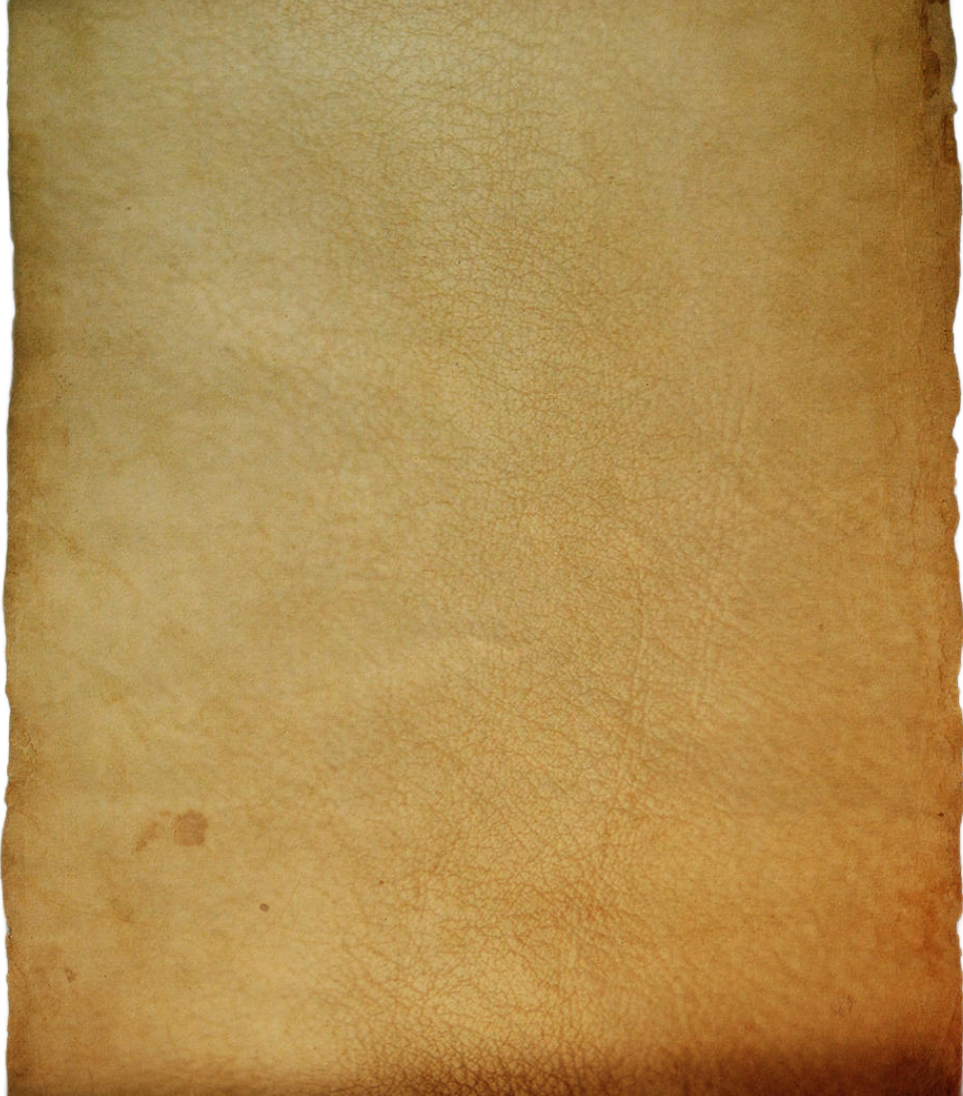
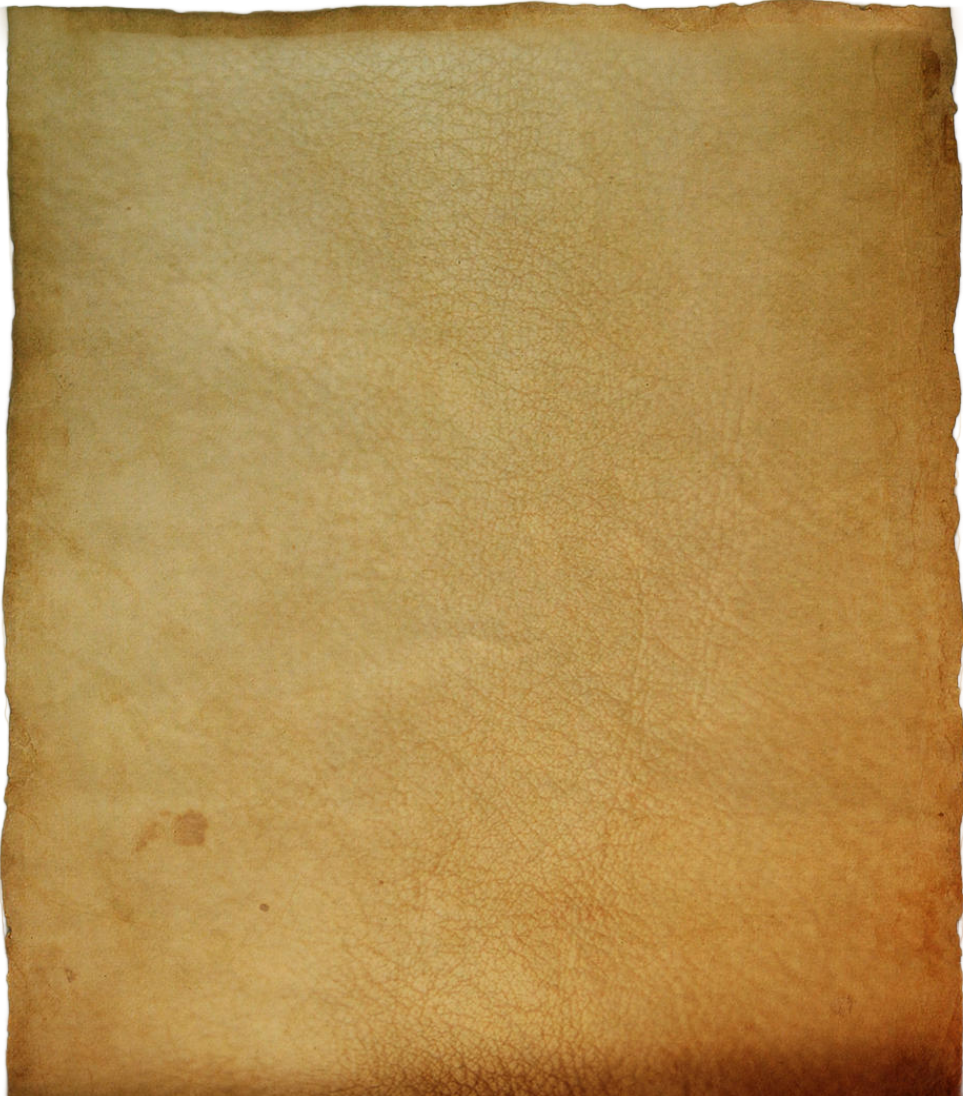
New Paper Background for spells (ragged top)

diff --git a/5e Darker Dungeons.css b/5e Darker Dungeons.css
@@ -850,7 +850,7 @@
 }
 
 .charsheet .sheet-darkerdungeons .sheet-form .sheet-form-header {
-  background: #5b1c04;
+  background: radial-gradient( #5b1c04, transparent);
   color: rgb(255, 255, 255);
   font-size: 9px;
   font-weight: bold;
@@ -860,8 +860,7 @@
 }
 
 .charsheet .sheet-darkerdungeons .sheet-form .sheet-form-body {
-  background-image:linear-gradient(to right bottom, rgba(255,255,255,0.3), rgba(255,255,255,0.0), rgba(255,255,255,0.0)),
-   url(https://raw.githubusercontent.com/DM1818/ThaumicaSheet5e/refs/heads/main/images/PaperFullHeight.png);
+  background-image: url(https://raw.githubusercontent.com/DM1818/ThaumicaSheet5e/refs/heads/main/images/PaperFullHeight.png);
   -moz-background-size:100% 100%;
   -webkit-background-size:100% 100%;
   background-size:100% 100%;
@@ -904,10 +903,9 @@
 }
 .charsheet .sheet-darkerdungeons .sheet-form .sheet-form-body textarea {
   border: none;
-  background-image: linear-gradient(0deg, rgba(126, 45, 64, 0.35) 2px,transparent 1px);
-  background-size: 100% 18px;
-  background-attachment:local;
-  width:100%;
+  border-style: solid;
+  border-width: 2px;
+  border-image: linear-gradient(to bottom right, rgba(126, 45, 64, 0.35), transparent) 1;
 }
 .charsheet .sheet-darkerdungeons .sheet-form .sheet-form-body label {
   text-shadow: 0px 0px 2px rgba(126, 45, 64, 0.7), 0px 0px 3px rgba(151, 54, 77, 0.5), 0px 0px 5px rgba(202, 82, 110, 0.35);
